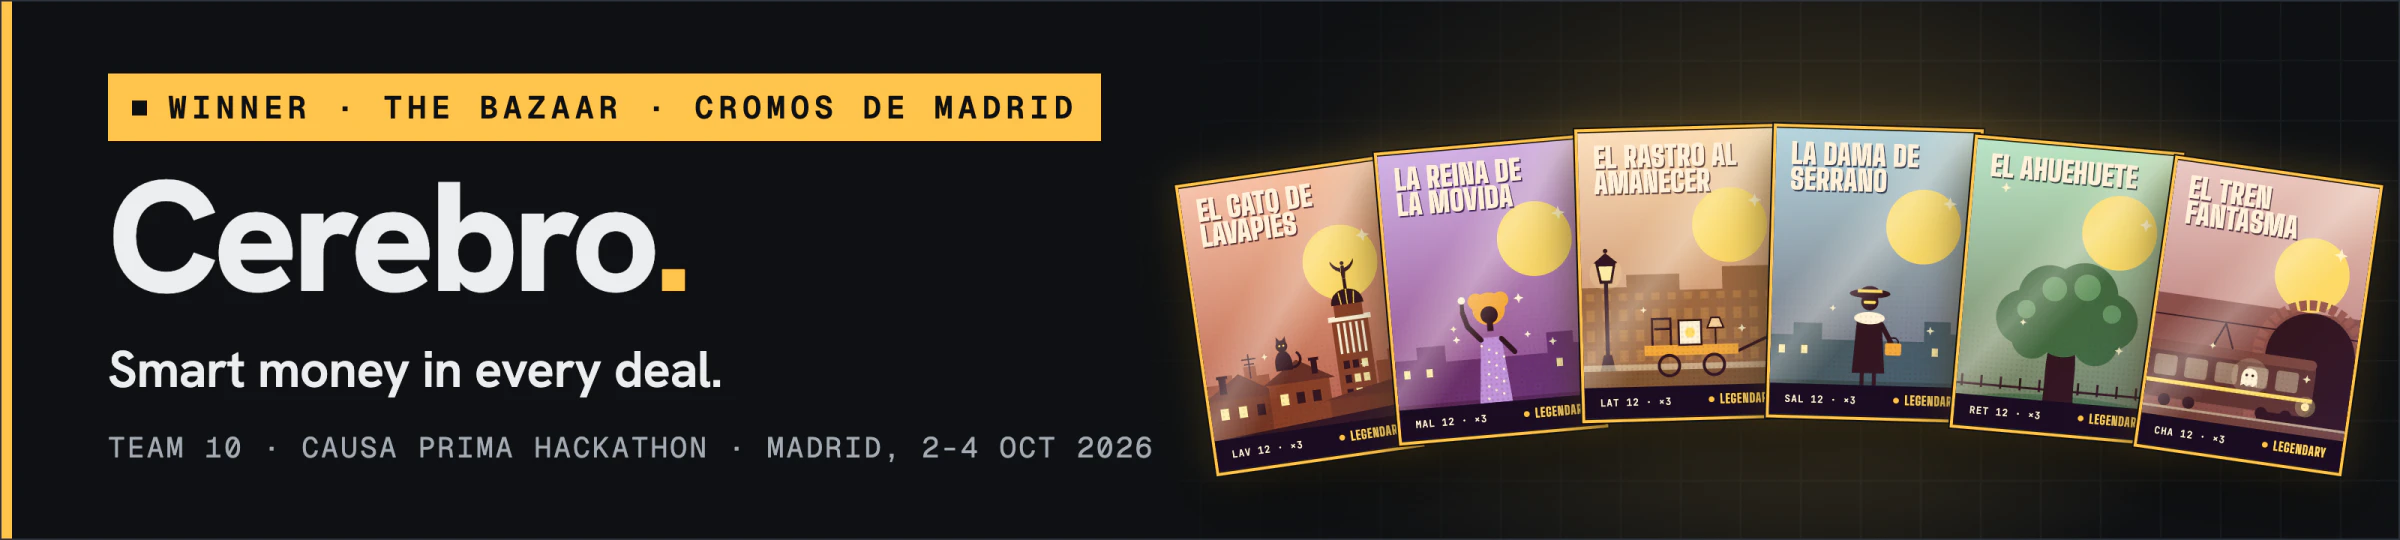
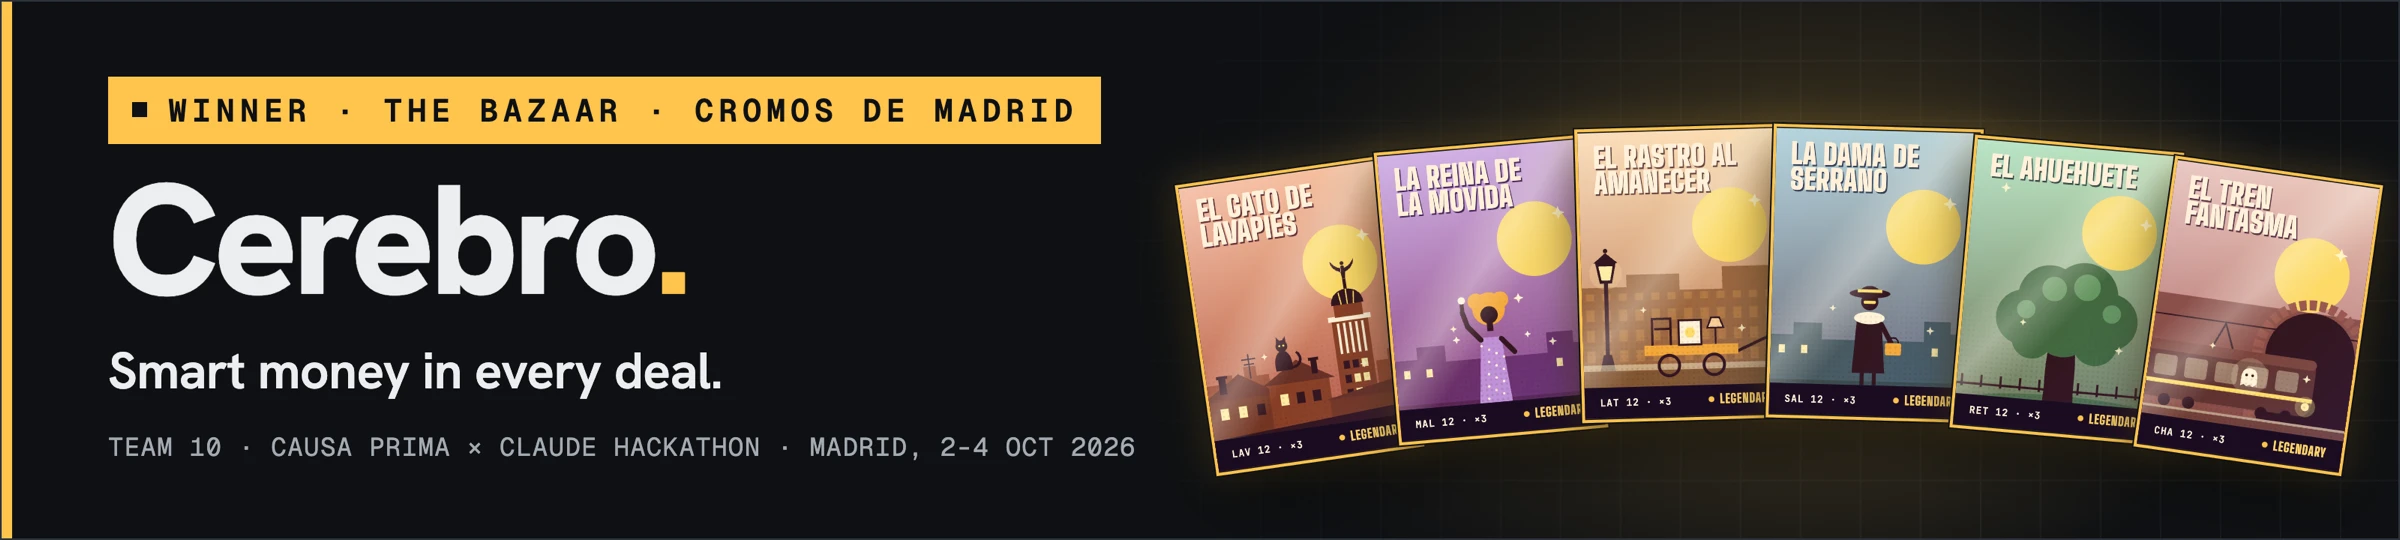
docs: name the event as Causa Prima × Claude
The hackathon was organised by Causa Prima with Claude as the partner
on the event poster. Say so in the README winner line, intro and banner
alt text, in NOTICE and on the banner's bottom line, and credit Claude
Code once in Credits. The banner line is set slightly smaller so the
longer name clears the cards.

Part of #29

diff --git a/README.md b/README.md
@@ -1,10 +1,10 @@
-![Winner of The Bazaar · Cromos de Madrid: Cerebro, by Team 10, with the six legendary cards of the game. Causa Prima hackathon, Madrid, 2–4 October 2026](docs/img/winner-banner.webp)
+![Winner of The Bazaar · Cromos de Madrid: Cerebro, by Team 10, with the six legendary cards of the game. Causa Prima × Claude hackathon, Madrid, 2–4 October 2026](docs/img/winner-banner.webp)
 
 # Cerebro
 
 **Smart money in every deal.**
 
-**Winner of The Bazaar · Cromos de Madrid**, the Causa Prima hackathon (Madrid, 2–4 October 2026). 2nd of 18 on the server board, and winner of the hackathon after the judges' pitch round.
+**Winner of The Bazaar · Cromos de Madrid**, the Causa Prima × Claude hackathon (Madrid, 2–4 October 2026). 2nd of 18 on the server board, and winner of the hackathon after the judges' pitch round.
 
 **[Dashboard (frozen snapshot)](https://nglmrtn.com/Cerebro/)** · **[v07 Market (frozen snapshot)](https://nglmrtn.com/Cerebro/market/)** · **[Watch the video](https://nglmrtn.com/Cerebro/video/)** · **[Open the pitch deck](https://nglmrtn.com/Cerebro/pitch/)**
 
@@ -14,7 +14,7 @@
 
 An autonomous trading agent, the dashboard its humans watch it through, and a market other teams' agents can trade on. Built by Team 10.
 
-Built for **The Bazaar · Cromos de Madrid**, the game of the Causa Prima hackathon (Madrid, 2–4 October 2026). Eighteen teams collected and traded Madrid sticker cards for three days, against five AI dealers and against each other, through an HTTP API. Team 10 finished **2nd of 18 on the server board** (35.76 points; first place had 37.73). The server board was 60 of the 100 points; the judges' round was the other 40, and after it Team 10 won.
+Built for **The Bazaar · Cromos de Madrid**, the game of the Causa Prima × Claude hackathon (Madrid, 2–4 October 2026). Eighteen teams collected and traded Madrid sticker cards for three days, against five AI dealers and against each other, through an HTTP API. Team 10 finished **2nd of 18 on the server board** (35.76 points; first place had 37.73). The server board was 60 of the 100 points; the judges' round was the other 40, and after it Team 10 won.
 
 Our rule for the weekend: **the agent trades, the humans build.**
 
@@ -316,6 +316,8 @@ With one more day we would bring the market to the teams, not the teams to the m
 ## Credits
 
 Cerebro was built by Team 10: Ángel, Daniel and Luca, with Claude doing the trading and much of the building.
+
+Built with [Claude Code](https://claude.com/claude-code).
 
 Repository: <https://github.com/aaangelmartin/Cerebro>
 
